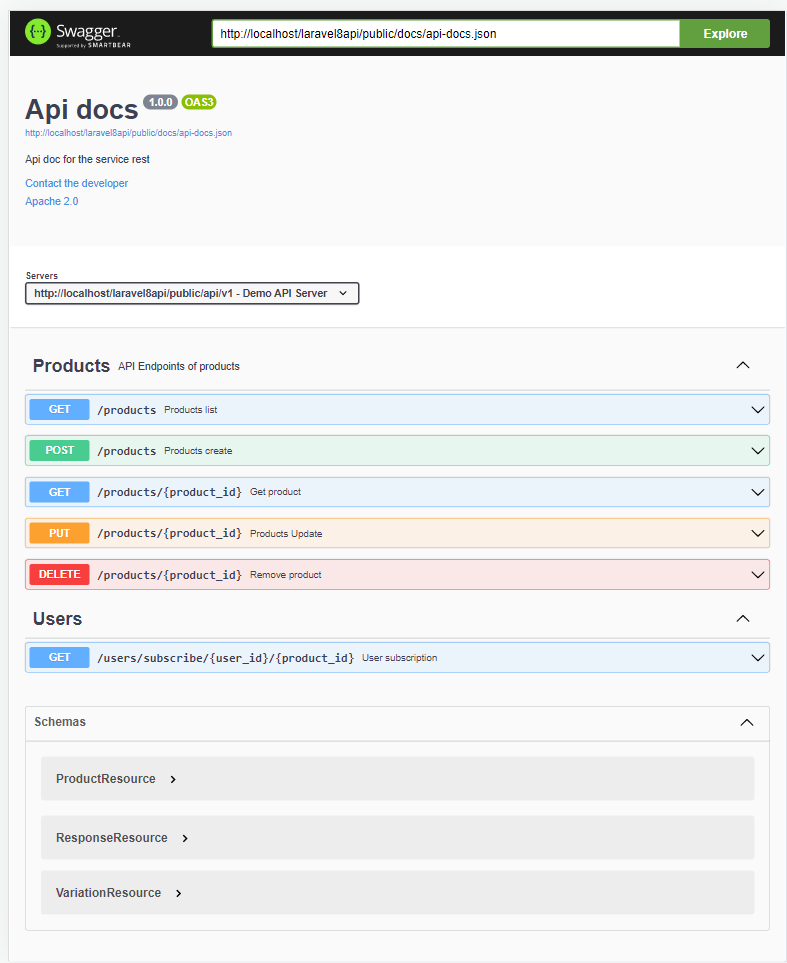
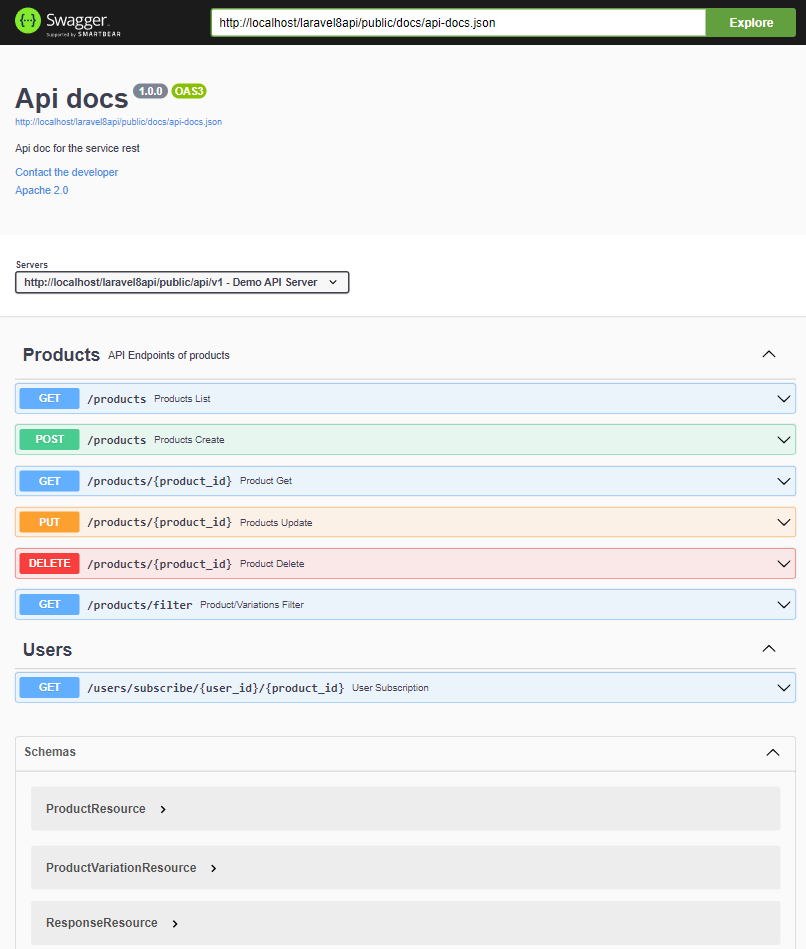
Readme update

Changed region(s): [[0.0, 0.3667, 1.0, 0.9779], [0.0, 0.0, 1.0, 0.2139], [0.0, 0.275, 0.4574, 0.3361]]

diff --git a/app/Http/Controllers/ProductController.php b/app/Http/Controllers/ProductController.php
@@ -25,7 +25,7 @@ class ProductController extends Controller
      *  path="/products",
      *  operationId="products-list",
      *  tags={"Products"},
-     *  summary="Products list",
+     *  summary="Products List",
      *  description="Get list of all products  ",     
      *  @OA\Response(response="200", description="Successful operation",  @OA\JsonContent(type="array", @OA\Items(ref="#/components/schemas/ProductResource"))),
      *  @OA\Response(response="404", description="Bad Request")
@@ -45,7 +45,7 @@ class ProductController extends Controller
      *  path="/products/{product_id}",
      *  operationId="products-get",
      *  tags={"Products"},
-     *  summary="Get product",
+     *  summary="Product Get",
      *  description="Get specified product",   
      *  @OA\Parameter(name="product_id", in="path", required=true, @OA\Schema(type="integer")),  
      *  @OA\Response(response="200", description="Successful operation",  @OA\JsonContent(type="array", @OA\Items(ref="#/components/schemas/ProductResource"))),
@@ -66,7 +66,7 @@ class ProductController extends Controller
      *  path="/products",
      *  operationId="products-create",
      *  tags={"Products"},
-     *  summary="Products create",
+     *  summary="Products Create",
      *  description="Create products and varations",   
      *  @OA\RequestBody(
      *      required=true,
@@ -131,8 +131,8 @@ class ProductController extends Controller
      *  path="/products/{product_id}",
      *  operationId="products-remove",
      *  tags={"Products"},
-     *  summary="Remove product",
-     *  description="Remove the specified product", 
+     *  summary="Product Delete",
+     *  description="Delete the specified product", 
      * @OA\Parameter(name="product_id", in="path", required=true, @OA\Schema(type="integer")),      
      *  @OA\Response(response="200", description="Successful operation",  @OA\JsonContent()),
      *  @OA\Response(response="404", description="Product Not Found")
@@ -154,7 +154,7 @@ class ProductController extends Controller
      *  path="/products/filter",
      *  operationId="products-filter",
      *  tags={"Products"},
-     *  summary="Product/Variatios filter",
+     *  summary="Product/Variations Filter",
      *  description="Get a list of products and variations filtered by characteristics and attributes ",  
      * @OA\Parameter(name="name", description="Product name", in="query", @OA\Schema(type="string")),
      * @OA\Parameter(name="description", description="Product description", in="query", @OA\Schema(type="string")),

diff --git a/app/Http/Controllers/UserController.php b/app/Http/Controllers/UserController.php
@@ -25,7 +25,7 @@ class UserController extends Controller
      *  path="/users/subscribe/{user_id}/{product_id}",
      *  operationId="user-subscribe",
      *  tags={"Users"},
-     *  summary="User subscription",
+     *  summary="User Subscription",
      *  description="Returns subscription data",
      *  @OA\Parameter(name="user_id", in="path", required=true, @OA\Schema(type="integer")),
      *  @OA\Parameter(name="product_id", in="path", required=true, @OA\Schema(type="integer")),

diff --git a/README.md b/README.md
@@ -1,19 +1,18 @@
-# Api rest Demo con Laravel 8 
+# Api rest Demo con Laravel 8.2
 
 Esta Api Rest fué desarrollada con fines demostrativos y prácticos con el framework Laravel en su versión 8.2, donde se plantean los siguientes requisitos:
 
+-   Realizar CRUD (crear, actualizar, eliminar) de los siguientes datos de productos.
 
-+ Realizar CRUD (crear, actualizar, eliminar) de los siguientes datos de productos. 
+    -   Nombre
+    -   Descripción
+    -   Atributos (Color, talla, etc... pueden estar predefinidos)
+    -   Precio
+    -   stock
 
-    + Nombre
-    + Descripción
-    + Atributos (Color, talla, etc... pueden estar predefinidos)
-    + Precio
-    + stock
-
-+ El precio del producto puede variar en dependencia de los atributos del producto
-+ Filtrar por nombre, descripción, atributos, precio (desde-hasta), indicar si  se desean filtrar solo productos con stock en existencia
-+ Suscribir usuarios a productos sin stock y avisarle (con un email) de manera automática cuando se reponga stock, solo se debe avisar a la cantidad de clientes para los que alcance el stock.
+-   El precio del producto puede variar en dependencia de los atributos del producto
+-   Filtrar por nombre, descripción, atributos, precio (desde-hasta), indicar si se desean filtrar solo productos con stock en existencia
+-   Suscribir usuarios a productos sin stock y avisarle (con un email) de manera automática cuando se reponga stock, solo se debe avisar a la cantidad de clientes para los que alcance el stock.
 
 <img
 src="preview.png"
@@ -25,28 +24,59 @@ style="margin:10px"
 ## Desarrollo
 
 ### Análisis y gestión de base de datos:
-+ Se necesita tabla products (name, description, price, stock) para almacenar datos del producto
-+ Se necesita tabla attributes(name description) para almacenar los nombre de los atributos como son color, talla, estado 
-+ Se necesita tabla attributes_options(name, attribute_id) para almacenar los nombres de las opciones de cada atributos, por ejemplo: para el atributo color, opciones como: rojo, negro, blanco, para el atributo tamaño, opciones como grande, mediano, pequeño.
-+ Se necesita tabla product_attribute_values(attribute_option_id, product_id, price) para relacionar los productos con las opciones de los atributos que posea y donde se almacena también el precio, creando así variaciones del mismo producto, pudiera tenerse aca un stock para cada variación.
-+ Se necesita tabla userSubscription(user_id, product_id) donde se relacionen los usuarios con los productos a los que se desea suscribir.
+Para lograr la óptima gestión de los datos se necesitan las siguientes tablas:
+-   products (name, description, price, stock) para almacenar datos del producto
+-   attributes(name description) para almacenar los nombre de los atributos como son color, talla, estado
+-   attributes_options(name, attribute_id) para almacenar los nombres de las opciones de cada atributos, por ejemplo: para el atributo color, opciones como: rojo, negro, blanco, para el atributo tamaño, opciones como grande, mediano, pequeño.
+-   product_attribute_values(attribute_option_id, product_id, price) para relacionar los productos con las opciones de los atributos que posea y donde se almacena también el precio, creando así variaciones del mismo producto, pudiera tenerse aca un stock para cada variación.
+-   userSubscription(user_id, product_id) donde se relacionen los usuarios con los productos a los que se desea suscribir.
 
 ### Codificación
 
-+ Se crean clases migrations y clases models eloquent con soporte a factory para la creación de objetos en masa que facilitan el proceso de realizar test.
-+ Se realizan relationships entre los models.
-+ Se especializa la función create del model [Product](https://github.com/yurisnel/laravel8api/blob/main/app/Model/Product.php) donde se implementa funcionalidad para  facilitar la [creación](#creación_de_producto/variaciones) de las variaciones de productos.
-+ Se utiliza patrón [repository](https://github.com/yurisnel/laravel8api/blob/main/app/Repositories/ProductRepository.php) donde se realizan todas las operaciones con los modelos y base de datos.
-+ Se utiliza patrón observable creando [event](https://github.com/yurisnel/laravel8api/blob/main/app/Events/ProductUpdateEvent.php) para cuando se actualiza el stock de productos un [listeners](https://github.com/yurisnel/laravel8api/blob/main/app/Listeners/ProductUpdateListener.php) realice la operación de notificar por correo a clientes que están suscriptos al producto.
-+ Se manejan los errores, se crea clase personalizada de Error, se capturan todos las excepciones en un único lugar previsto por laravel > Exceptions\Handler.php. Se agrega opción para imprimir en log los sql cuando la variable *DB_SQL_DEBUG_LOG* sea true.
-+ Se utilizan clases Resources para dar formato a las respuestas http.
-+ Se implementa documentación del API con OpenAPI y Swagger con el módulo darkaonline/l5+swagger. Para lo que se utilizan anotaciones en los controller y en las clases Resources donde se crean Schema reutilizable que facilitan la generación del api doc.
-+ Se implementan [Test](https://github.com/yurisnel/laravel8api/blob/main/tests/Feature/ProductTest.php) automáticos.
+-   Se crean clases migrations y clases models eloquent con soporte a factory para la creación de objetos en masa que facilitan el proceso de realizar test.
+-   Se realizan relationships entre los models.
+-   Se especializa la función *create* del model [Product](https://github.com/yurisnel/laravel8api/blob/main/app/Model/Product.php) donde se implementa funcionalidad para facilitar la [creación](#creación_de_productovariaciones) de las variaciones de productos.
+-   Se utiliza patrón [repository](https://github.com/yurisnel/laravel8api/blob/main/app/Repositories/ProductRepository.php) donde se realizan todas las operaciones con los modelos y base de datos.
+-   Se utiliza patrón observable creando [event](https://github.com/yurisnel/laravel8api/blob/main/app/Events/ProductUpdateEvent.php) para cuando se actualiza el stock de productos un [listeners](https://github.com/yurisnel/laravel8api/blob/main/app/Listeners/ProductUpdateListener.php) realice la operación de notificar por correo a clientes que están suscriptos al producto.
+-   Se manejan los errores, se crea clase personalizada de Error, se capturan todos las excepciones en un único lugar previsto por laravel > Exceptions\Handler.php. Se agrega opción para imprimir en log los sql cuando la variable _DB_SQL_DEBUG_LOG_ sea true.
+-   Se utilizan clases Resources para dar formato a las respuestas http.
+-   Se implementa documentación del API con OpenAPI y Swagger con el módulo darkaonline/l5+swagger. Para lo que se utilizan anotaciones en los controller y en las clases Resources donde se crean Schema reutilizable que facilitan la generación del api doc.
+-   Se implementan [Test](https://github.com/yurisnel/laravel8api/blob/main/tests/Feature/ProductTest.php) automáticos.
 
 
+## Entorno de desarrollo utilizado
 
-### Creación de producto/variaciones
-Realizar una petición post a *{dominio}/api/v1/products* con el siguiente json en el body: 
+-   php 7.4.22 (requerido 7.3+)
+-   mysql 5.1
+-   composer 2.1.14
+-   Visual Code 1.63.1
+
+## Implementación de la solución
+
+1. Clonar repositorio: https://github.com/yurisnel/laravel8api
+2. Descargar dependencias: _composer install_
+3. Crear base de datos
+4. Duplicar _.env.example_ y cambiar nombre a _.env_
+5. Indicar en el fichero _.env_ los datos de acceso al servidor(DB_CONNECTION, DB_HOST, DB_PORT, DB_DATABASE, DB_USERNAME, DB_PASSWORD)
+6. Ejecutar migraciones para crear base de datos: _php artisan migrate_ (agregar al comando _--seed_ para insertar datos de pruebas)
+7. Documentación del api:
+   http://localhost/laravel8api/public/api/documentation
+8. Para realizar test:
+    - Duplicar _.env.example_ y cambiar nombre a _.env.testing_
+    - Indicar en el fichero _.env.testing_ los datos de acceso al servidor (la base de datos no debe ser la misma, crear una nueva)
+    - Ejecutar: _php artisan test_
+
+<img
+src="preview-testing.png"
+raw=true
+alt=""
+style="margin:10px"
+/>
+
+## Creación de producto/variaciones
+
+Realizar una petición post a _{dominio}/api/v1/products_ con el siguiente json en el body:
+
 ```
 {
   "id": 1,
@@ -63,46 +93,21 @@ Realizar una petición post a *{dominio}/api/v1/products* con el siguiente json 
   ]
 }
 ```
-Se puede especificar en *variations* tantas como se desea, en caso de que no exista el atributo/option se agregará en las tablas *attributes*, *attributes_option* correspondiente y se creará la asociación con el producto en la tabla *product_attribute_value* con el precio indicado para cada variación del producto.
 
-### Filtrado de producto/variaciones
-Realizar una petición Get a *{dominio}/api/v1/products/filter* con uno o más parámetros por url con el siguiente formato:
+Se puede especificar en _variations_ tantas como se desea, en caso de que no exista el atributo/option se agregará en las tablas _attributes_, _attributes_option_ correspondiente y se creará la asociación con el producto en la tabla _product_attribute_value_ con el precio indicado para cada variación del producto.
+
+## Filtrado de producto/variaciones
+
+Realizar una petición Get a _{dominio}/api/v1/products/filter_ con uno o más parámetros por url con el siguiente formato:
+
 ```
 name=Producto name set&description=description set&price=50-99&variations=small,blue
 ```
-- Para los campos *name* y *description* se utilizan filtros de %text%
-- El *price* puede indicarse único o en rango
-- Los *atrributes* se indican separados por ,
-- En la preciencia de más de un filtro se realizan *AND*
 
-## Entorno de desarrollo utilizado
-+ php 7.4.22 (requerido 7.3+)
-+ mysql 5.1
-+ composer 2.1.14
-+ Visual Code 1.63.1
-
-## Implementación de la solución
-
-1. Clonar repositorio: https://github.com/yurisnel/laravel8api
-2. Descargar dependencias: *composer install*
-3. Crear base de datos 
-4. Duplicar *.env.example* y cambiar nombre a *.env*
-5. Indicar en el fichero *.env* los datos de acceso al servidor(DB_CONNECTION, DB_HOST, DB_PORT, DB_DATABASE, DB_USERNAME, DB_PASSWORD) 
-6. Ejecutar migraciones para crear base de datos: *php artisan migrate* (agregar al comando *--seed* para insertar datos de pruebas)
-7. Documentación del api: 
-http://localhost/laravel8api/public/api/documentation
-8. Para realizar test: 
-    - Duplicar *.env.example* y cambiar nombre a *.env.testing*
-    - Indicar en el fichero *.env.testing* los datos de acceso al servidor (la base de datos no debe ser la misma, crear una nueva)
-    - Ejecutar: *php artisan test*
-
-
-<img
-src="preview-testing.png"
-raw=true
-alt=""
-style="margin:10px"
-/>
+-   Para los campos _name_ y _description_ se utilizan filtros de %text%
+-   El _price_ puede indicarse único o en rango
+-   Los _atrributes_ se indican separados por ,
+-   En la preciencia de más de un filtro se realizan _AND_
 
 ## License
 
